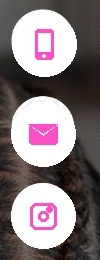
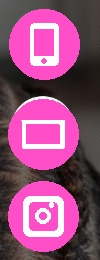
h

diff --git a/_fix_contact_icons.py b/_fix_contact_icons.py
@@ -1,0 +1,83 @@
+"""Fill contact icons: solid pink circles, white glyphs, no white leftover."""
+from pathlib import Path
+
+from PIL import Image, ImageDraw
+
+ROOT = Path(__file__).resolve().parent
+SRC = ROOT / "images" / "canva-03.jpg"
+OUT = SRC
+PINK = (255, 78, 200)
+WHITE = (255, 255, 255)
+
+# Cover the existing white disks completely.
+CIRCLES = [(1204, 324, 35), (1203, 414, 35), (1203, 496, 35)]
+
+
+def draw_phone(draw: ImageDraw.ImageDraw, cx: int, cy: int, s: float) -> None:
+    body = [cx - s * 0.52, cy - s * 0.78, cx + s * 0.52, cy + s * 0.78]
+    draw.rounded_rectangle(body, radius=int(s * 0.18), fill=WHITE)
+    screen = [cx - s * 0.36, cy - s * 0.54, cx + s * 0.36, cy + s * 0.42]
+    draw.rectangle(screen, fill=PINK)
+    draw.ellipse([cx - s * 0.10, cy + s * 0.52, cx + s * 0.10, cy + s * 0.70], fill=PINK)
+
+
+def draw_mail(draw: ImageDraw.ImageDraw, cx: int, cy: int, s: float) -> None:
+    env = [cx - s * 0.78, cy - s * 0.50, cx + s * 0.78, cy + s * 0.52]
+    draw.rounded_rectangle(env, radius=int(s * 0.10), fill=WHITE)
+    inner = [cx - s * 0.62, cy - s * 0.34, cx + s * 0.62, cy + s * 0.36]
+    draw.rectangle(inner, fill=PINK)
+    draw.polygon(
+        [
+            (cx - s * 0.78, cy - s * 0.50),
+            (cx, cy + s * 0.08),
+            (cx + s * 0.78, cy - s * 0.50),
+        ],
+        fill=WHITE,
+    )
+    draw.polygon(
+        [
+            (cx - s * 0.58, cy - s * 0.34),
+            (cx, cy + s * 0.12),
+            (cx + s * 0.58, cy - s * 0.34),
+        ],
+        fill=PINK,
+    )
+
+
+def draw_instagram(draw: ImageDraw.ImageDraw, cx: int, cy: int, s: float) -> None:
+    pad = [
+        cx - s * 0.72,
+        cy - s * 0.72,
+        cx + s * 0.72,
+        cy + s * 0.72,
+    ]
+    draw.rounded_rectangle(pad, radius=int(s * 0.28), fill=WHITE)
+    inner = [
+        cx - s * 0.52,
+        cy - s * 0.52,
+        cx + s * 0.52,
+        cy + s * 0.52,
+    ]
+    draw.rounded_rectangle(inner, radius=int(s * 0.18), fill=PINK)
+    draw.ellipse([cx - s * 0.28, cy - s * 0.28, cx + s * 0.28, cy + s * 0.28], fill=WHITE)
+    draw.ellipse([cx - s * 0.14, cy - s * 0.14, cx + s * 0.14, cy + s * 0.14], fill=PINK)
+    draw.ellipse([cx + s * 0.22, cy - s * 0.50, cx + s * 0.40, cy - s * 0.32], fill=WHITE)
+
+
+def main() -> None:
+    im = Image.open(SRC).convert("RGBA")
+    overlay = Image.new("RGBA", im.size, (0, 0, 0, 0))
+    draw = ImageDraw.Draw(overlay)
+    painters = [draw_phone, draw_mail, draw_instagram]
+    for (cx, cy, rad), paint in zip(CIRCLES, painters):
+        draw.ellipse([cx - rad, cy - rad, cx + rad, cy + rad], fill=(*PINK, 255))
+        paint(draw, cx, cy, rad * 0.78)
+    out = Image.alpha_composite(im, overlay).convert("RGB")
+    out.save(OUT, "JPEG", quality=92, optimize=True, progressive=True)
+    crop = out.crop((1160, 280, 1260, 540))
+    crop.save(ROOT / "_icons_now.jpg", quality=95)
+    print("painted", CIRCLES)
+
+
+if __name__ == "__main__":
+    main()
